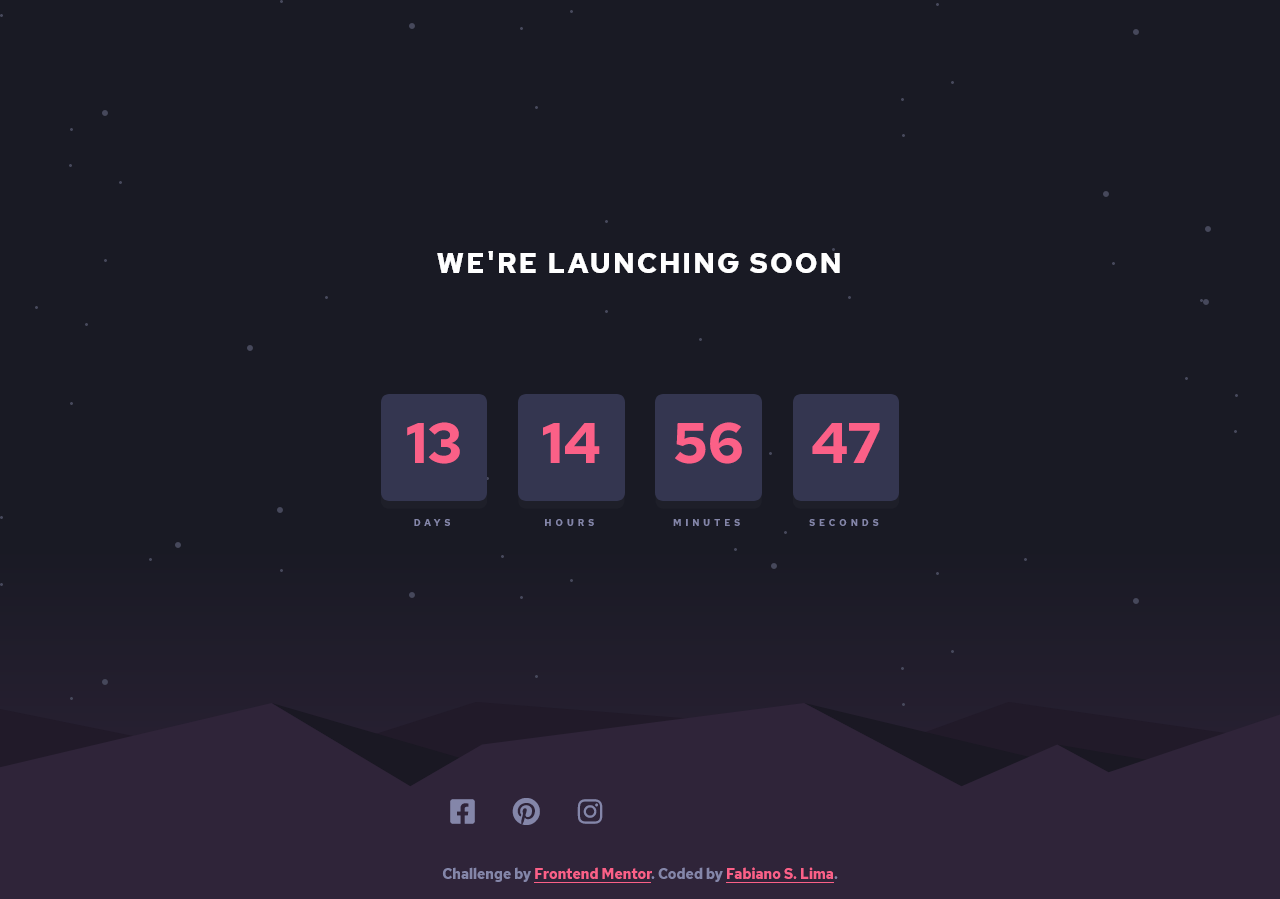
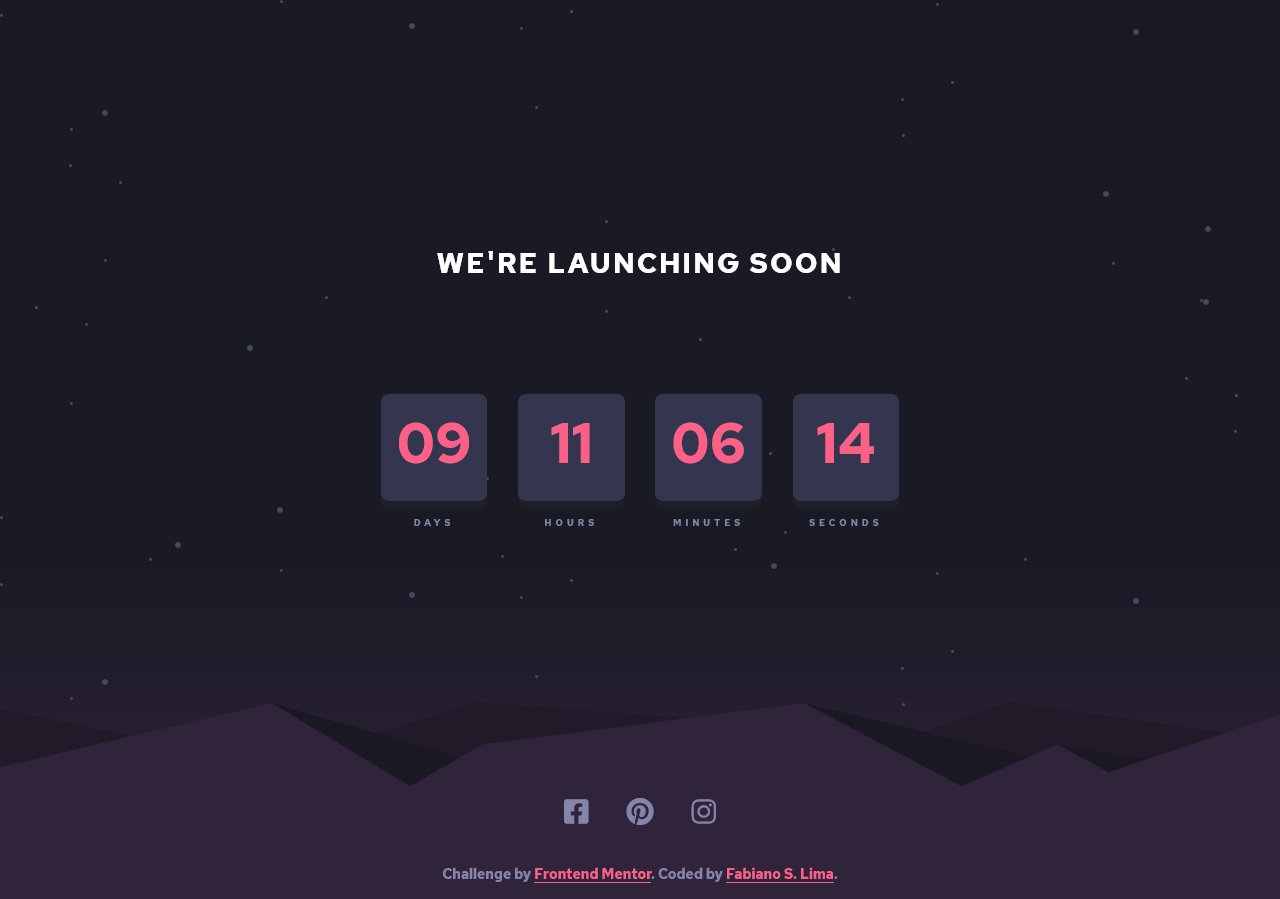
ajustando width da div social

diff --git a/src/style.css b/src/style.css
@@ -17,6 +17,7 @@ body {
 a {
 	color: inherit;	
 }
+
 body::before {
 	height: 100vh;
 	width: 100vw;
@@ -110,7 +111,7 @@ body::after {
 }
 
 .social {
-	width: fit-content;
+	width: max-content;
 	margin: 0 auto;
 	font-size: 2em;
 	color: var(--primary-blue);

diff --git a/README.md b/README.md
@@ -13,6 +13,9 @@ Users should be able to:
 - See a live countdown timer that ticks down every second (start the count at 14 days)
 - **Bonus**: When a number changes, make the card flip from the middle
 
+### link
+[live netlify](https://sl-countdown.netlify.app/)
+
 ### Screenshot
 
 ![](./screenshot.png)
